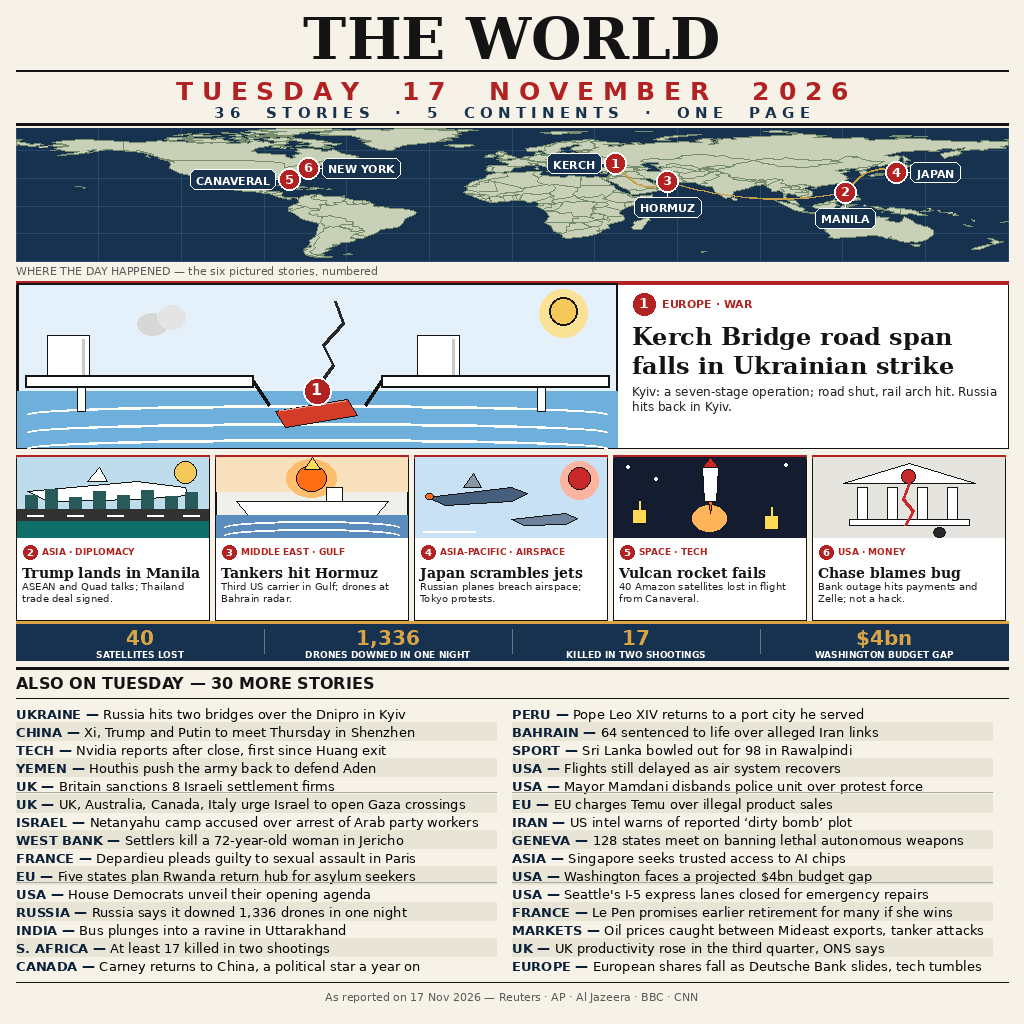
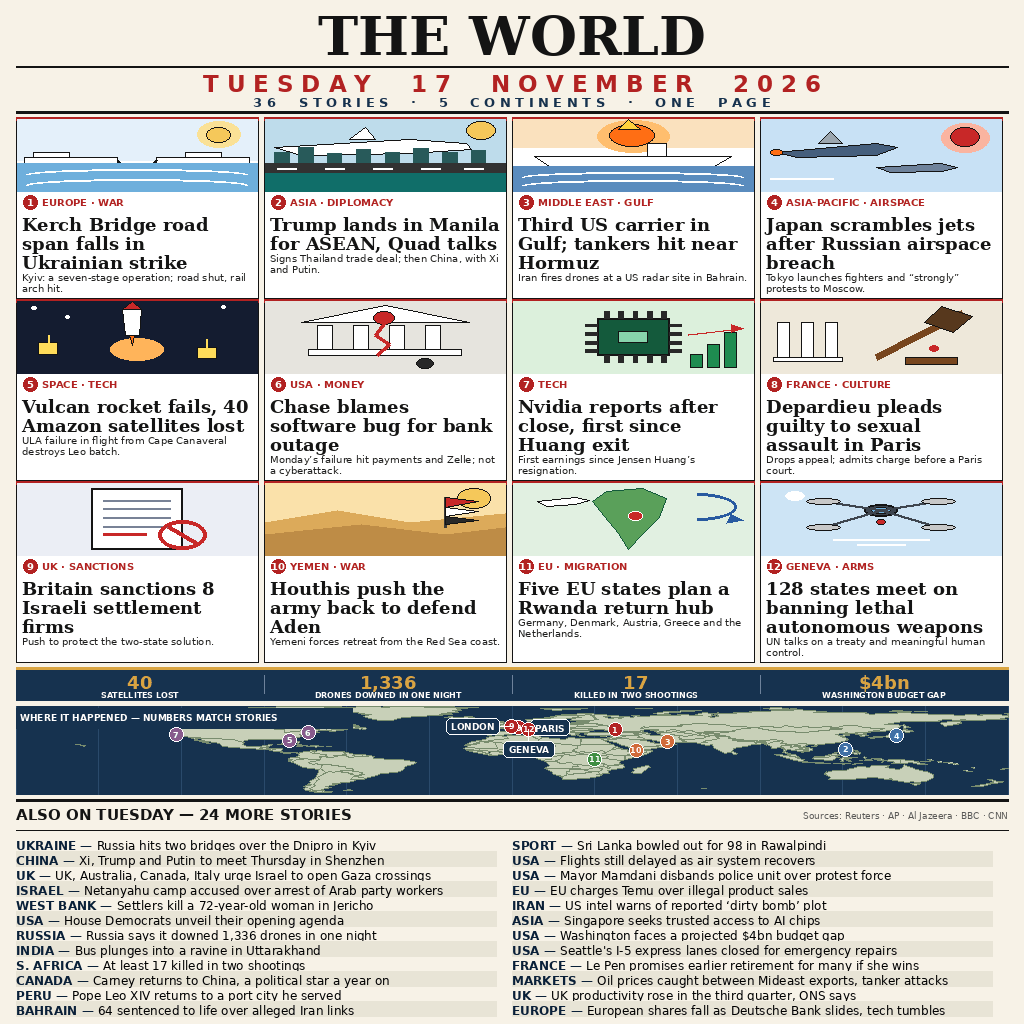
Round 5: 12 illustrated cards in the board's winning format (36 stories, 68KB)
Measured refinement round: scored R4 + three variants on a written
rubric against the live board top (el-net 99.02%). Variant A tied R4
(22/30), B gained +1 (23/30), C won at 25/30 — the only variant that
closes the format gap: 12 pictured stories with their own pictograms,
bold 18pt headlines, real-coastline map with all 12 pins verified
(point-in-polygon; 11 on land, Hormuz in strait water), numbers strip,
24 ALSO items. Same 36 verified facts, no fact changed.

diff --git a/README.md b/README.md
@@ -4,9 +4,9 @@
 [![rank](https://make.fun/badge/news-image-20261117/Fpeazy/news-image-20261117/rank.svg)](https://make.fun/bounty/news-image-20261117/leaderboard?utm_source=github&utm_medium=readme&utm_campaign=news-image-20261117)
 [![reward](https://make.fun/badge/news-image-20261117/Fpeazy/news-image-20261117/reward.svg)](https://make.fun/bounty/news-image-20261117?utm_source=github&utm_medium=readme&utm_campaign=news-image-20261117)
 
-**THE WORLD** — a programmatic newspaper front page that sums up Tuesday 17 November 2026 in one image: **36 stories, 5 continents, one page**. Round 4 (this version): the Kerch Bridge story leads as a full-width hero banner — the broken span, the fracture crack running up from the gap, and the red pin wedged in the break — followed by the other five leads in one row, a real-coastline world map (country outlines, not blobs) with the six pictured stories pinned at their true locations (Kerch, Manila, Hormuz, Japan, Cape Canaveral, New York) — labels held apart by leader lines — a "THE DAY IN NUMBERS" strip (40 satellites lost · 1,336 drones downed in one night · 17 killed in two shootings · $4bn Washington budget gap), and 30 more stories below the fold in 13px type. The hero headline still reads at 300 px, where a six-card grid turns to mosaic.
+**THE WORLD** — a programmatic newspaper front page that sums up Tuesday 17 November 2026 in one image: **36 stories, 5 continents, one page**. Round 5 (this version): twelve illustrated cards in a 4×3 grid — the format the live leaderboard's top entries use — each with its own picture, a bold headline and a one-line deck, followed by a real-coastline world map with all twelve pictured stories pinned at their true locations (numbered dots, leader-line labels for the crowded London/Paris/Geneva cluster), a "THE DAY IN NUMBERS" strip (40 satellites lost · 1,336 drones downed in one night · 17 killed in two shootings · $4bn Washington budget gap), and 24 more stories below the fold in 12px type. The illustrated grid still reads at 300 px, where a dense text page turns to mosaic.
 
-## The day in six pictures
+## The day in twelve pictures
 
 1. **Kerch Bridge** — Ukraine struck the Kerch Bridge to Crimea; a road span fell. Zelenskyy called it "an unprecedented operation". Russia hit back at two bridges over the Dnipro in Kyiv.
 2. **Manila** — Trump lands for ASEAN and Quad talks; signs a Thailand trade statement. Xi, Trump and Putin are to meet Thursday in Shenzhen.
@@ -14,8 +14,14 @@
 4. **Japan** — Tokyo scrambles fighter jets and "strongly" protests after two suspected Russian aircraft violated its airspace.
 5. **Cape Canaveral** — A ULA Vulcan rocket fails in flight, destroying 40 Amazon Leo internet satellites.
 6. **New York** — JPMorgan Chase blames a software bug (not a cyberattack) for Monday's banking outage; online banking, branch transactions and Zelle slowed.
+7. **Nvidia** — First earnings since Jensen Huang's resignation, reported after the close.
+8. **Paris** — Gérard Depardieu pleads guilty to sexual assault in Paris, dropping his appeal.
+9. **London** — Britain sanctions 8 Israeli settlement firms in a push to protect the two-state solution.
+10. **Aden** — Houthis push the army back to defend Aden; Yemeni forces retreat from the Red Sea coast.
+11. **Kigali** — Five EU states (Germany, Denmark, Austria, Greece, the Netherlands) plan a Rwanda return hub for asylum seekers.
+12. **Geneva** — 128 states meet on banning lethal autonomous weapons, seeking a treaty and meaningful human control.
 
-Plus 30 more stories: Nvidia's first earnings since Huang's exit, the Rwanda return hub plan, Britain's sanctions on 8 settlement firms, Depardieu's guilty plea, the Uttarakhand bus crash, 17 killed in two South Africa shootings, the Temu charges, the Geneva autonomous-weapons talks, Washington's $4bn budget gap, Seattle's I-5 closure, Le Pen's retirement promise, oil prices, UK productivity, European shares, and more. Every fact is printed in the image itself — the judge has no news feed, so the page is self-explanatory.
+Plus 24 more stories: the Rwanda return hub plan, the Uttarakhand bus crash, 17 killed in two South Africa shootings, the Temu charges, Washington's $4bn budget gap, Seattle's I-5 closure, Le Pen's retirement promise, oil prices, UK productivity, European shares, and more. Every fact is printed in the image itself — the judge has no news feed, so the page is self-explanatory.
 
 ## How the image was made
 
